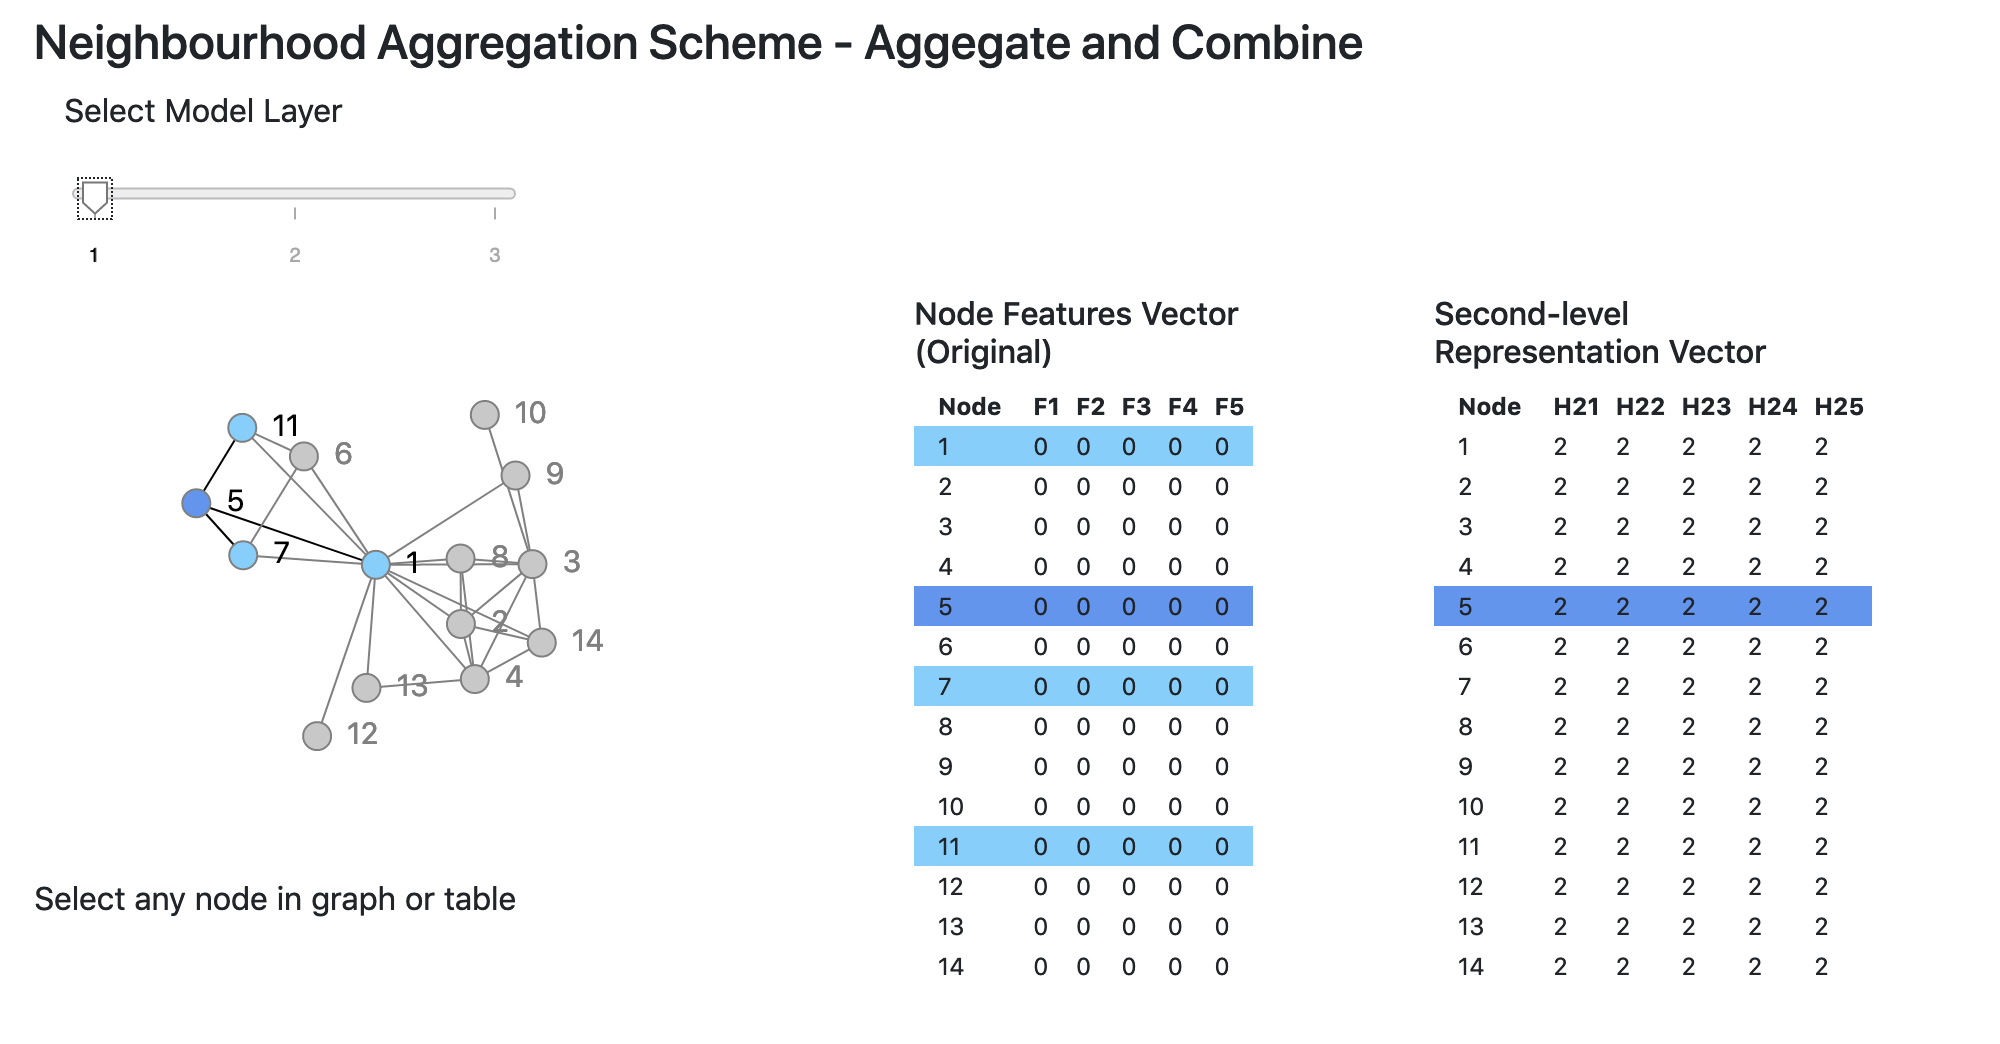
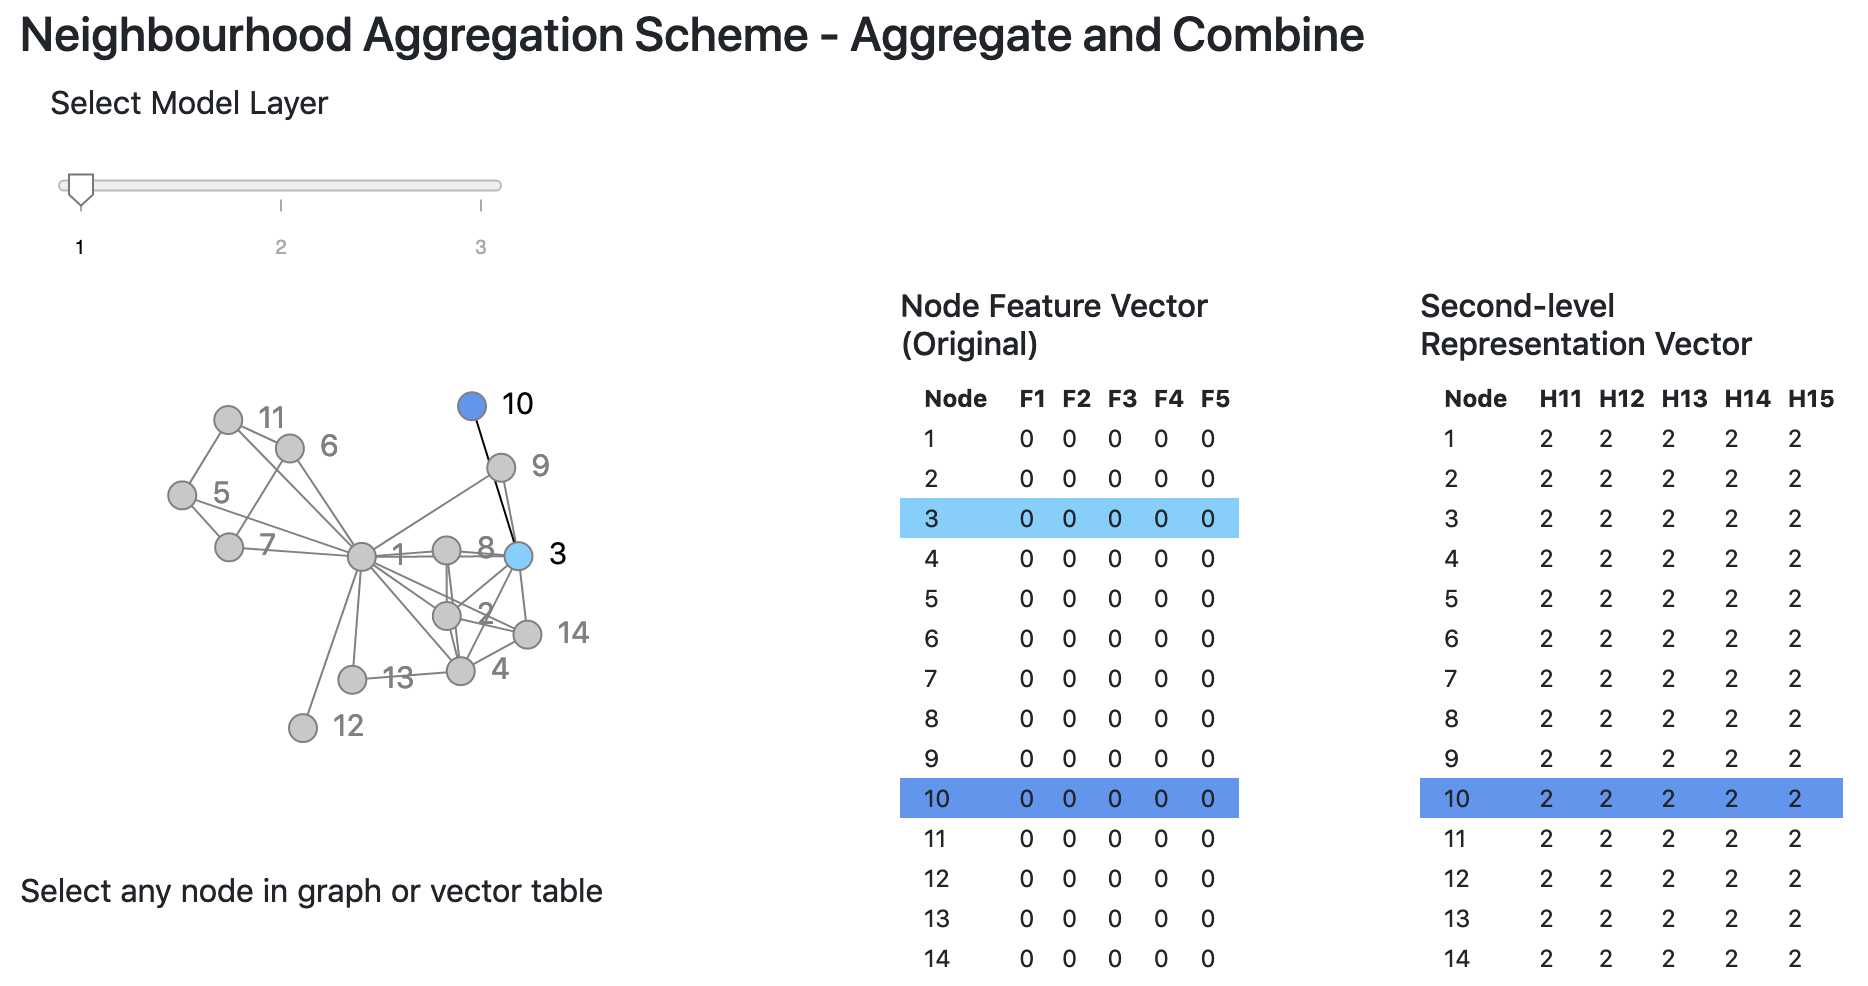
Add files via upload

diff --git a/GNNViz_v3.html b/GNNViz_v3.html
@@ -38,7 +38,7 @@
 />
 <body>
 <div class="container">
-    <h4>Neighbourhood Aggregation Scheme - Aggegate and Combine</h4>
+    <h4>Neighbourhood Aggregation Scheme - Aggregate and Combine</h4>
     <!-- <div class="row align-items-center"> -->
       <div class="col-sm-2">Select Model Layer
         <!-- - Current Value:
@@ -54,7 +54,7 @@
       <div class="col-lg">
         <svg width="400" height="300" id="graph_network_svg">
         </svg>
-        <div>Select any node in graph or table</div>
+        <div>Select any node in graph or vector table</div>
         <svg width="400" height="200" id="legend">
         </svg>
         
@@ -341,7 +341,7 @@ function tabulate(data) {
 
       var table1 = d3.select('#table1');//.attr('class','tables');
       table1.selectAll('h6').remove();
-      table1.append('h6').text('Node Features Vector (Original)');
+      table1.append('h6').text('Node Feature Vector (Original)');
       table1.select('thead').remove();
       table1.select('tbody').remove();
       var thead1 = table1.append('thead');
@@ -399,10 +399,10 @@ function tabulate(data) {
       else
       columns2 = [' ','id',' ','h21','h22','h23','h24','h25'];
       
-      if (k==2)
-      columns2Labels = [' ','Node',' ','H11','H12','H13','H14','H15'];
-      else
+      if (k>=2)
       columns2Labels = [' ','Node',' ','H21','H22','H23','H24','H25'];
+      else
+      columns2Labels = [' ','Node',' ','H11','H12','H13','H14','H15'];
       
 
       thead2.append('tr')
